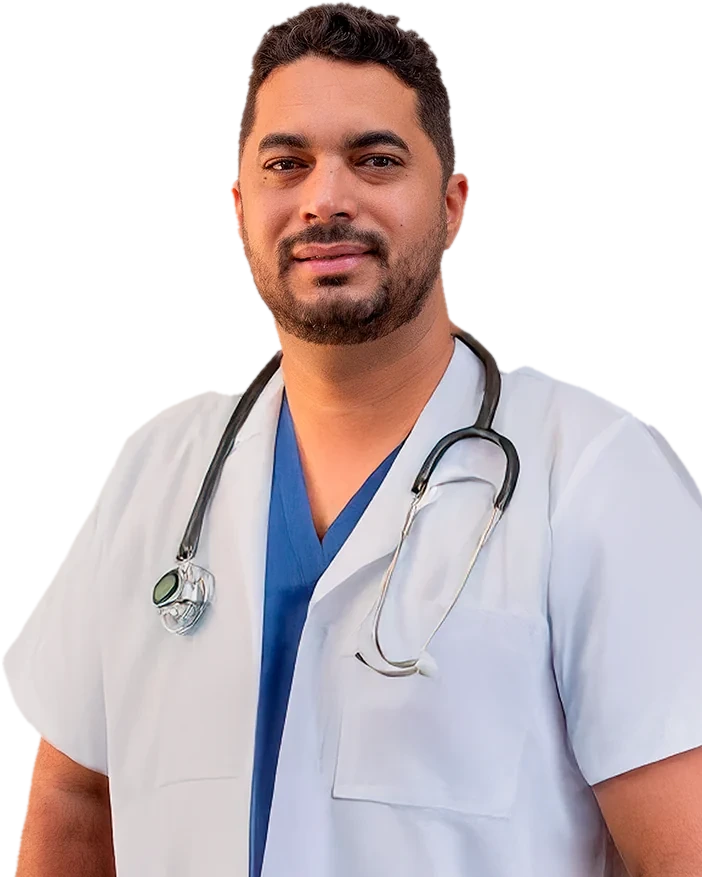
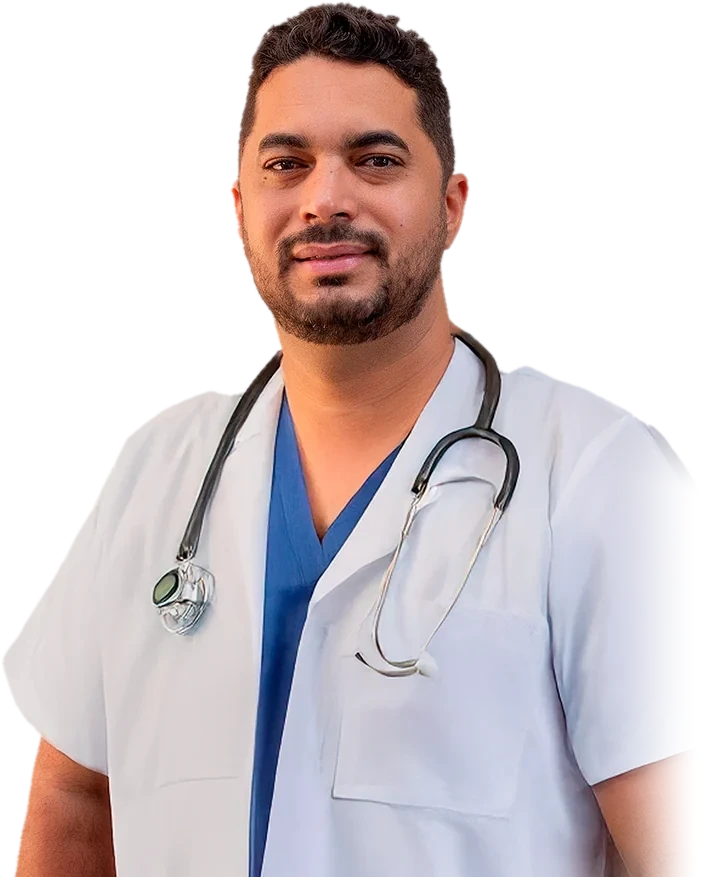
wip: recortes do hero longe da borda e checagem da lateral na foto inteira
Rascunho interrompido a pedido; não publicado e sem PR. Dissolve a borda
cortada das fotos de Ademy, Dhiego e Ilka, afasta os retratos da borda do
cartão e faz a checagem olhar a lateral em toda a altura da foto.

Claude-Session: https://claude.ai/code/session_01RAkwaETwbnDoHznjvqz198

Changed region(s): [[0.8675, 0.4926, 1.0, 1.0]]

diff --git a/app/hero-campaigns.css b/app/hero-campaigns.css
@@ -10,7 +10,8 @@
 .hero-campaign-portrait-cutout .hero-campaign-visual{background:radial-gradient(circle at 82% 42%,rgba(75,105,197,.52),transparent 31%),linear-gradient(135deg,#0b1748 0%,#112765 56%,#183985 100%)}
 .hero-campaign-portrait-cutout .hero-campaign-visual::before,.hero-campaign-portrait-cutout .hero-campaign-visual::after{content:"";position:absolute;right:2%;top:13%;width:46%;aspect-ratio:1;border:1px solid rgba(240,155,72,.3);border-radius:50%;pointer-events:none}
 .hero-campaign-portrait-cutout .hero-campaign-visual::after{right:8%;top:21%;width:32%;border-color:rgba(255,255,255,.13)}
-.hero-campaign-portrait-cutout .hero-campaign-visual>picture{z-index:1;inset:auto;right:4%;bottom:calc(30px + var(--hero-photo-inset));width:32%;height:74%}
+/* Os retratos ficam sempre afastados da borda direita do cartão (em todas as larguras e durante a rolagem), para os ombros e braços nunca serem cortados. */
+.hero-campaign-portrait-cutout .hero-campaign-visual>picture{z-index:1;inset:auto;right:calc(var(--hero-photo-right, 0%) + 4%);bottom:calc(30px + var(--hero-photo-inset));width:calc(32% - var(--hero-photo-right, 0%));height:74%}
 .hero-campaign-portrait-cutout .hero-campaign-visual>picture>img{position:absolute;inset:0;width:100%;height:100%;object-fit:contain;object-position:center bottom;filter:saturate(.94) contrast(1.03);transform:translate3d(2%,0,0) scale(.985);transform-origin:center bottom}
 .hero-campaign-portrait-cutout.is-active .hero-campaign-visual>picture>img{transform:translate3d(0,0,0) scale(var(--campaign-portrait-scale));transition-duration:.18s,.6s;transition-timing-function:linear,ease}
 .hero-campaign-shade{position:absolute;inset:0;background:linear-gradient(90deg,rgba(5,15,52,.94) 0%,rgba(7,19,61,.82) 31%,rgba(7,19,61,.18) 68%,rgba(7,19,61,.05)),linear-gradient(180deg,rgba(4,13,45,.08),rgba(4,13,45,.42));pointer-events:none}
@@ -49,7 +50,7 @@
   .hero-campaign-nav{right:18px;bottom:19px}
   .hero-campaign-nav button{width:27px}
   .hero-campaign-nav button.is-active{width:42px}
-  .hero-campaign-portrait-cutout .hero-campaign-visual>picture{right:0;bottom:-2px;width:70%;height:94%}
+  .hero-campaign-portrait-cutout .hero-campaign-visual>picture{right:4%;bottom:-2px;width:66%;height:94%}
   .hero-campaign-portrait-cutout .hero-campaign-visual::before{right:-18%;top:8%;width:90%}
   .hero-campaign-portrait-cutout .hero-campaign-visual::after{right:-2%;top:21%;width:57%}
   .hero-campaign-portrait-cutout .hero-campaign-shade{background:linear-gradient(180deg,transparent 15%,rgba(5,15,52,.035) 100%)}
@@ -57,13 +58,13 @@
 
 /* Recortes sem margem lateral (páginas diárias): afastam o retrato do texto no celular, como as margens dos recortes das campanhas. */
 @media(max-width:520px){
-  .hero-campaign-flush.hero-campaign-portrait-cutout .hero-campaign-visual>picture{width:45%;height:80%}
+  .hero-campaign-flush.hero-campaign-portrait-cutout .hero-campaign-visual>picture{width:41%;height:80%}
 }
 @media(max-width:360px){
-  .hero-campaign-flush.hero-campaign-portrait-cutout .hero-campaign-visual>picture{width:40%;height:74%}
+  .hero-campaign-flush.hero-campaign-portrait-cutout .hero-campaign-visual>picture{width:36%;height:74%}
 }
 @media(min-width:1025px){
-  .hero-campaign-flush.hero-campaign-portrait-cutout .hero-campaign-visual>picture{width:26%;height:66%}
+  .hero-campaign-flush.hero-campaign-portrait-cutout .hero-campaign-visual>picture{width:calc(26% - var(--hero-photo-right, 0%));height:66%}
 }
 
 @media(min-width:701px) and (max-width:1024px){
@@ -72,7 +73,7 @@
   .hero-campaign-copy{right:49%;bottom:12%;left:6%;transform:none}
   .hero-campaign-copy h2{font-size:clamp(42px,6vw,58px)}
   .hero-campaign-copy p{font-size:14px}
-  .hero-campaign-portrait-cutout .hero-campaign-visual>picture{right:2%;bottom:-2px;width:49%;height:83%}
+  .hero-campaign-portrait-cutout .hero-campaign-visual>picture{right:5%;bottom:-2px;width:46%;height:83%}
   .hero-campaign-portrait-cutout .hero-campaign-visual::before{right:-2%;top:10%;width:58%}
   .hero-campaign-portrait-cutout .hero-campaign-visual::after{right:7%;top:22%;width:40%}
   .hero-campaign-nav{right:5%;bottom:24px}

diff --git a/AGENTS.md b/AGENTS.md
@@ -111,7 +111,7 @@ Mas NÃO invente uma identidade quando houver dúvida.
 
 O hero exibe, além das campanhas fixas, uma página por médico que atende no dia, gerada a partir da agenda semanal. Os médicos que podem aparecer ficam em `heroDoctorIds`, em `app/agenda/hero-doctors.ts`. Quando o usuário enviar nomes de médicos para o hero, localize cada um no cadastro (`app/agenda/agenda-professionals.ts`) e adicione somente o `id` nessa lista; não crie campanhas manuais em `app/hero-campaigns.ts` para isso e não adicione textos indicando que a página existe por causa do cargo.
 
-Todo recorte novo ou alterado em `public/profissionais/hero/` precisa passar por `pnpm check:hero-photos` (o build já roda essa checagem) e ser conferido a olho na folha gerada por `node scripts/check-hero-photos.mjs --sheet folha.png`, que mostra os recortes sobre o azul do hero. Nenhum fundo pode aparecer entre o pescoço e a gola ou os ombros: se a remoção de fundo tiver apagado parte do corpo ou da roupa, corrija o recorte antes de publicar.
+Todo recorte novo ou alterado em `public/profissionais/hero/` precisa passar por `pnpm check:hero-photos` (o build já roda essa checagem) e ser conferido a olho na folha gerada por `node scripts/check-hero-photos.mjs --sheet folha.png`, que mostra os recortes sobre o azul do hero. Nenhum fundo pode aparecer entre o pescoço e a gola ou os ombros: se a remoção de fundo tiver apagado parte do corpo ou da roupa, corrija o recorte antes de publicar. O corpo também não pode terminar em linha reta na lateral: quando a foto original corta o braço ou o jaleco, dissolva essa borda no próprio recorte.
 
 Campanhas manuais de `app/hero-campaigns.ts` que se refiram a uma data específica devem sempre informar `date` (AAAA-MM-DD, último dia de exibição). Podem ser cadastradas antecipadamente e permanecem no hero até esse dia; depois dele saem do site automaticamente. Nunca deixe no hero um médico cuja data já passou.
 
